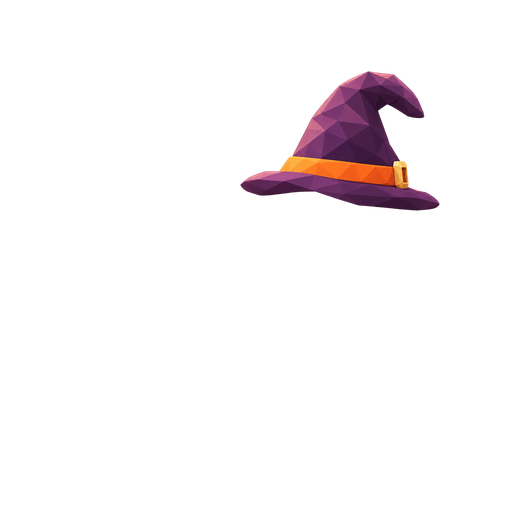
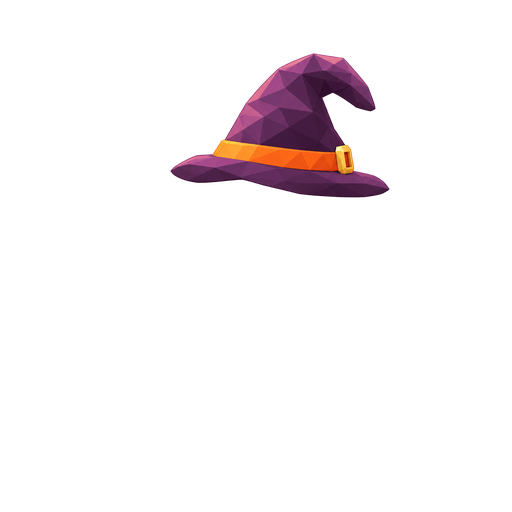
art: correct witch hat side seating

Changed region(s): [[0.3125, 0.0938, 0.875, 0.4375]]

diff --git a/design/2d/halloween/README.ru.md b/design/2d/halloween/README.ru.md
@@ -90,3 +90,10 @@
 [review/witchhat-fit-v1.png](review/witchhat-fit-v1.png) — три примерки рядом. Проверены отсутствие перекрытия глаз, контакт полей с макушкой и изменение перспективы пряжки. Выемки под усики на малом размере могут теряться; перенос на другие виды потребует отдельной проверки посадки. Ракурсы являются кандидатами на просмотр, не утверждены владельцем автоматически.
 
 Подготовлено 24 из 46 обязательных файлов. Осталось 22: 15 слоёв других костюмов, 4 тыквы-фонаря, дверь, корзинка и заголовок события. Далее — тыква-шапка. Игровой код и runtime-ассеты не менялись.
+
+
+### Исправление профиля шляпы, v2
+
+По замечанию владельца исправлен только профиль: центр посадки x340 → x280, нижний край полей y211 → y198, ширина 200 → 220 px. Шляпа уточнена встроенным image_gen, затем выполнена пропорциональная механическая посадка. Усики частично перекрыты колпаком в профиль; проверка анимации остаётся при подключении.
+
+[review/witchhat-side-fix-v2.png](review/witchhat-side-fix-v2.png) — до/после. Общий лист `witchhat-fit-v1.png` обновлён. Актуальный запрос профиля и параметры экспорта: [prompts-witchhat-side-fix-v2.json](prompts-witchhat-side-fix-v2.json); промпт v1 сохранён как история. Контрольные суммы в `image-checks-witchhat-v1.json` актуализированы. Front и q3-front побайтово сохранены. Исправление на просмотре.
